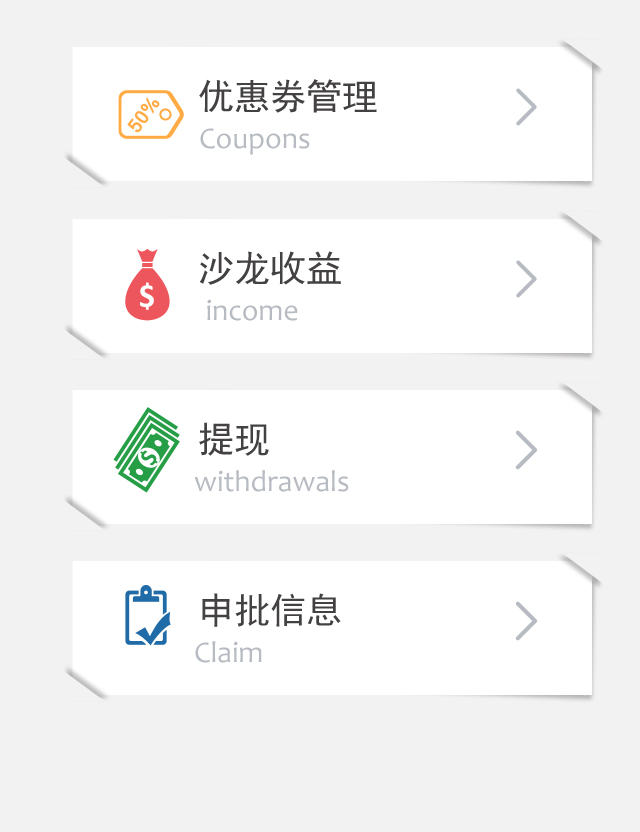
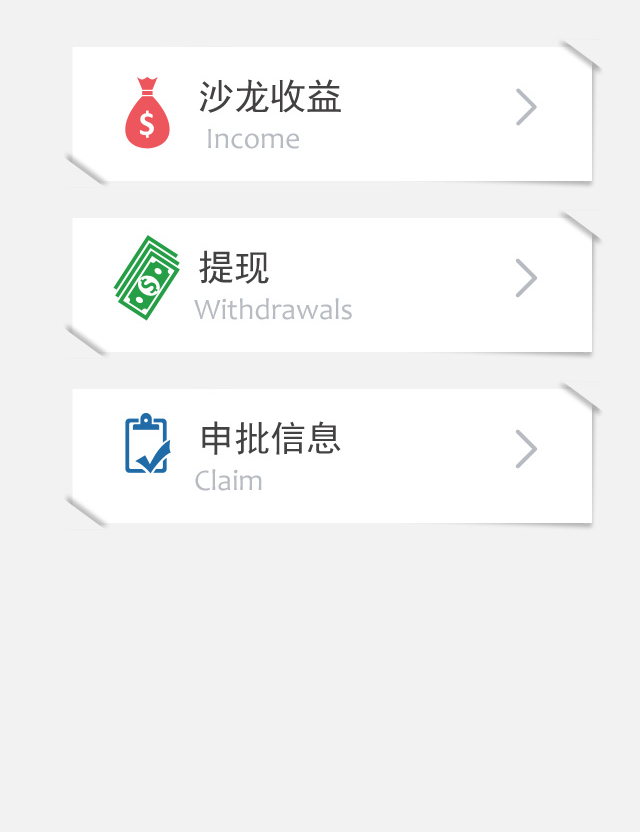
approval

diff --git a/src/ios/App/Views/ApprovalCell.m b/src/ios/App/Views/ApprovalCell.m
@@ -7,6 +7,20 @@
 //
 
 #import "ApprovalCell.h"
+#import "CircleImageView.h"
+#import "Staff.h"
+@interface ApprovalCell ()
+
+@property (nonatomic, strong) NSDictionary *dataDic;
+@property (nonatomic, strong) CircleImageView *imgView;
+@property (nonatomic, strong) UILabel *nameLbl;
+@property (nonatomic, strong) UILabel *descrpLbl;
+@property (nonatomic, strong) UIButton *approveBtn;
+@property (nonatomic, strong) UIButton *rejectBtn;
+
+@end
+
+
 
 @implementation ApprovalCell
 
@@ -14,21 +28,82 @@
 {
     self = [super initWithStyle:style reuseIdentifier:reuseIdentifier];
     if (self) {
-        // Initialization code
+        self.backgroundColor = [UIColor clearColor];
+        self.imgView = [[CircleImageView alloc] initWithFrame:CGRectMake(15, 10, 60, 60)];
+        [self addSubview:self.imgView];
+        self.imgView.layer.borderColor = [[UIColor colorWithHexString:@"e0e0de"] CGColor];
+        self.imgView.layer.borderWidth = 2;
+        self.imgView.userInteractionEnabled = YES;
+        [self.imgView addGestureRecognizer:[[UITapGestureRecognizer alloc]initWithTarget:self action:@selector(gotoStaffDetail)]];
+        
+        self.nameLbl = [[UILabel alloc] initWithFrame:CGRectMake(MaxX(self.imgView) + 5,
+                                                                 Y(self.imgView),
+                                                                 100,
+                                                                 HEIGHT(self.imgView)/2)];
+        self.nameLbl.font = [UIFont boldSystemFontOfSize:16];
+        self.nameLbl.numberOfLines = 1;
+        self.nameLbl.backgroundColor = [UIColor clearColor];
+        self.nameLbl.textColor = [UIColor blackColor];
+        [self addSubview:self.nameLbl];
+        
+        self.descrpLbl = [[UILabel alloc] initWithFrame:CGRectMake(MaxX(self.imgView) + 5,
+                                                                  MaxY(self.nameLbl),
+                                                                  WIDTH(self.nameLbl),
+                                                                  HEIGHT(self.imgView)/2)];
+        self.descrpLbl.font = [UIFont systemFontOfSize:12];
+        self.descrpLbl.numberOfLines = 1;
+        self.descrpLbl.backgroundColor = [UIColor clearColor];
+        self.descrpLbl.textColor = [UIColor lightGrayColor];
+        [self addSubview:self.descrpLbl];
+        
+        self.rejectBtn = [UIButton buttonWithType:UIButtonTypeCustom];
+        self.rejectBtn.frame =  CGRectMake(200, 25, 40, 30);
+        self.rejectBtn.titleLabel.font = [UIFont systemFontOfSize:14];
+        self.rejectBtn.layer.cornerRadius = 5;
+        [self.rejectBtn setTitle:@"取消" forState:UIControlStateNormal];
+        [self.rejectBtn setTitleColor:[UIColor whiteColor] forState:UIControlStateNormal];
+        [self.rejectBtn setBackgroundColor:[UIColor lightGrayColor]];
+        [self.rejectBtn addTarget:self action:@selector(rejectClick) forControlEvents:UIControlEventTouchDown];
+        [self addSubview:self.rejectBtn];
+        
+        self.approveBtn = [UIButton buttonWithType:UIButtonTypeCustom];
+        self.approveBtn.frame =  CGRectMake(MaxX(self.rejectBtn) + 20, 25, 40, 30);
+        self.approveBtn.titleLabel.font = [UIFont systemFontOfSize:14];
+        self.approveBtn.layer.cornerRadius = 5;
+        [self.approveBtn setTitle:@"同意" forState:UIControlStateNormal];
+        [self.approveBtn setTitleColor:[UIColor whiteColor] forState:UIControlStateNormal];
+        [self.approveBtn setBackgroundColor:[UIColor redColor]];
+        [self.approveBtn addTarget:self action:@selector(appriveClick) forControlEvents:UIControlEventTouchDown];
+        [self addSubview:self.approveBtn];
+
     }
     return self;
 }
 
-- (void)awakeFromNib
+
+- (void)setup:(NSDictionary *)dic
 {
-    // Initialization code
+    self.dataDic = dic;
+    Staff *s =  [FakeDataHelper getFakeStaffList][0];
+    [self.imgView setImageWithURL:s.avatorUrl];
+    self.nameLbl.text = s.name;
+    self.descrpLbl.text = @"请求加入";
+    
 }
 
-- (void)setSelected:(BOOL)selected animated:(BOOL)animated
+- (void)gotoStaffDetail
 {
-    [super setSelected:selected animated:animated];
+    Staff *s =  [FakeDataHelper getFakeStaffList][0];
+    [self.delegate didTapStaff:s];
+}
 
-    // Configure the view for the selected state
+- (void)rejectClick
+{
+}
+
+- (void)appriveClick
+{
+    
 }
 
 @end

diff --git a/src/ios/App/Controllers/User/Group/GroupManage/ApprovalViewController.m b/src/ios/App/Controllers/User/Group/GroupManage/ApprovalViewController.m
@@ -7,9 +7,12 @@
 //
 
 #import "ApprovalViewController.h"
-
-@interface ApprovalViewController ()
-
+#import "ApprovalCell.h"
+#import "Staff.h"
+#import "StaffDetailViewController.h"
+@interface ApprovalViewController ()<ApprovalCellDelegate,UITableViewDataSource, UITableViewDelegate>
+@property (nonatomic, strong) NSMutableArray *datasource;
+@property (nonatomic, strong) UITableView *tableView;
 @end
 
 @implementation ApprovalViewController
@@ -34,7 +37,40 @@
 - (void)viewDidLoad
 {
     [super viewDidLoad];
-    // Do any additional setup after loading the view.
+    self.tableView = [[UITableView alloc] init];
+    self.tableView.frame = CGRectMake(0,
+                                      self.topBarOffset ,
+                                      WIDTH(self.view) ,
+                                      [self contentHeightWithNavgationBar:YES withBottomBar:NO]);
+    self.tableView.backgroundColor = [UIColor clearColor];
+    self.tableView.delegate = self;
+    self.tableView.dataSource = self;
+    self.tableView.separatorStyle = UITableViewCellSeparatorStyleNone;
+    self.tableView.backgroundColor = [UIColor clearColor];
+    [self.view addSubview:self.tableView];
+    
+    __weak typeof(self) weakSelf = self;
+    [self.tableView addPullToRefreshActionHandler:^{
+        [weakSelf insertRowAtTop];
+    }];
+    
+    [self.tableView.pullToRefreshView setSize:CGSizeMake(25, 25)];
+    [self.tableView.pullToRefreshView setBorderWidth:2];
+    [self.tableView.pullToRefreshView setBorderColor:[UIColor whiteColor]];
+    [self.tableView.pullToRefreshView setImageIcon:[UIImage imageNamed:@"centerIcon"]];
+    
+    self.tableView.showsInfiniteScrolling = NO;
+    self.datasource = [FakeDataHelper getFakeStaffList];
+
+}
+
+- (void)insertRowAtTop
+{
+    int64_t delayInSeconds = 1.2;
+    dispatch_time_t popTime = dispatch_time(DISPATCH_TIME_NOW, delayInSeconds * NSEC_PER_SEC);
+    dispatch_after(popTime, dispatch_get_main_queue(), ^(void) {
+        [self.tableView stopRefreshAnimation];
+    });
 }
 
 - (void)didReceiveMemoryWarning
@@ -43,15 +79,37 @@
     // Dispose of any resources that can be recreated.
 }
 
-/*
-#pragma mark - Navigation
-
-// In a storyboard-based application, you will often want to do a little preparation before navigation
-- (void)prepareForSegue:(UIStoryboardSegue *)segue sender:(id)sender
+- (CGFloat)tableView:(UITableView *)tableView heightForRowAtIndexPath:(NSIndexPath *)indexPath
 {
-    // Get the new view controller using [segue destinationViewController].
-    // Pass the selected object to the new view controller.
+    return 80;
 }
-*/
+
+- (NSInteger)tableView:(UITableView *)tableView numberOfRowsInSection:(NSInteger)section
+{
+    return  self.datasource.count;
+}
+
+- (UITableViewCell *)tableView:(UITableView *)tableView cellForRowAtIndexPath:(NSIndexPath *)indexPath
+{
+    static NSString * cellIdentifier = @"ApprovalCellIdentifier";
+    ApprovalCell * cell = [tableView dequeueReusableCellWithIdentifier:cellIdentifier];
+    if (!cell) {
+        cell = [[ApprovalCell alloc] initWithStyle:UITableViewCellStyleDefault reuseIdentifier:cellIdentifier];
+        cell.selectionStyle = UITableViewCellSelectionStyleNone;
+    }
+    cell.contentView.backgroundColor =  cell.backgroundColor = indexPath.row % 2 == 0?
+    [UIColor whiteColor] : [UIColor colorWithHexString:@"f5f6f8"];
+    cell.delegate = self;
+    [cell setup:nil];
+    return cell;
+}
+
+- (void)didTapStaff:(Staff *)staff
+{
+    StaffDetailViewController *vc = [StaffDetailViewController new];
+    vc.staff = staff;
+    [self.navigationController pushViewController:vc animated:YES];
+}
+
 
 @end

diff --git a/src/ios/App/Controllers/User/Group/GroupManage/GroupManageViewController.m b/src/ios/App/Controllers/User/Group/GroupManage/GroupManageViewController.m
@@ -44,17 +44,12 @@
     [contentView addSubview:btnBg];
     
     float buttonWidth = 240;
-    float buttonHeight = 67;
-    UIButton *couponBtn = [UIButton buttonWithType:UIButtonTypeCustom];
-    couponBtn.frame = CGRectMake(40,25 , buttonWidth, buttonHeight);
-    [couponBtn addTarget:self action:@selector(couponClick) forControlEvents:UIControlEventTouchDown];
-    [contentView addSubview:couponBtn];
-    
-    
+    float buttonHeight = 70;
     UIButton *revenuBtn = [UIButton buttonWithType:UIButtonTypeCustom];
-    revenuBtn.frame = CGRectMake(40, MaxY(couponBtn) + 20, buttonWidth, buttonHeight);
+    revenuBtn.frame = CGRectMake(40,20 , buttonWidth, buttonHeight);
     [revenuBtn addTarget:self action:@selector(revenuClick) forControlEvents:UIControlEventTouchDown];
     [contentView addSubview:revenuBtn];
+    
     
     UIButton *withDrawalBtn = [UIButton buttonWithType:UIButtonTypeCustom];
     withDrawalBtn.frame = CGRectMake(40, MaxY(revenuBtn) + 20, buttonWidth, buttonHeight);
@@ -65,7 +60,6 @@
     approvalBtn.frame = CGRectMake(40, MaxY(withDrawalBtn) + 20, buttonWidth, buttonHeight);
     [approvalBtn addTarget:self action:@selector(approvalClick) forControlEvents:UIControlEventTouchDown];
     [contentView addSubview:approvalBtn];
-
 }
 
 - (void)didReceiveMemoryWarning
@@ -74,11 +68,6 @@
     
 }
 
-
-- (void)couponClick
-{
-    [self.navigationController pushViewController:[CouponManagerViewController new] animated:YES];
-}
 
 - (void)revenuClick
 {

diff --git a/src/ios/App/Controllers/User/UserViewController.m b/src/ios/App/Controllers/User/UserViewController.m
@@ -198,7 +198,6 @@ static const float profileViewHeight = 90;
 {
     [self.navigationController popToViewController:self animated:NO];
     [self getStaffDetail];
-
     if([UserManager SharedInstance].userLogined.role == WHManager){
         MyGroupViewController *myGroupVc = [MyGroupViewController new];
         myGroupVc.hidesBottomBarWhenPushed = YES;
@@ -327,7 +326,10 @@ static const float profileViewHeight = 90;
         }
         case 3: {
             [self getStaffDetail];
-
+            MyGroupViewController *vc = [MyGroupViewController new];
+            vc.hidesBottomBarWhenPushed = YES;
+            [self.navigationController pushViewController:vc animated:YES];
+            return;
             if ([UserManager SharedInstance].userLogined.isApproving) {
                 [SVProgressHUD showErrorWithStatus:@"正在审核中，请耐心等待。" duration:1];
                 return;

diff --git a/src/ios/App/Views/ApprovalCell.h b/src/ios/App/Views/ApprovalCell.h
@@ -7,7 +7,16 @@
 //
 
 #import <UIKit/UIKit.h>
+#import "Staff.h"
+@protocol ApprovalCellDelegate <NSObject>
+
+- (void)didTapStaff:(Staff *)staff;
+
+@end
 
 @interface ApprovalCell : UITableViewCell
+@property (nonatomic, weak) id<ApprovalCellDelegate> delegate;
+
+- (void)setup:(NSDictionary *)dic;
 
 @end

diff --git a/src/ios/App/Controllers/User/Group/Staff/MyGroupStaffListViewController.m b/src/ios/App/Controllers/User/Group/Staff/MyGroupStaffListViewController.m
@@ -70,7 +70,7 @@
 
 - (CGFloat)tableView:(UITableView *)tableView heightForRowAtIndexPath:(NSIndexPath *)indexPath
 {
-    return 50;
+    return 80;
 }
 
 - (NSInteger)tableView:(UITableView *)tableView numberOfRowsInSection:(NSInteger)section
